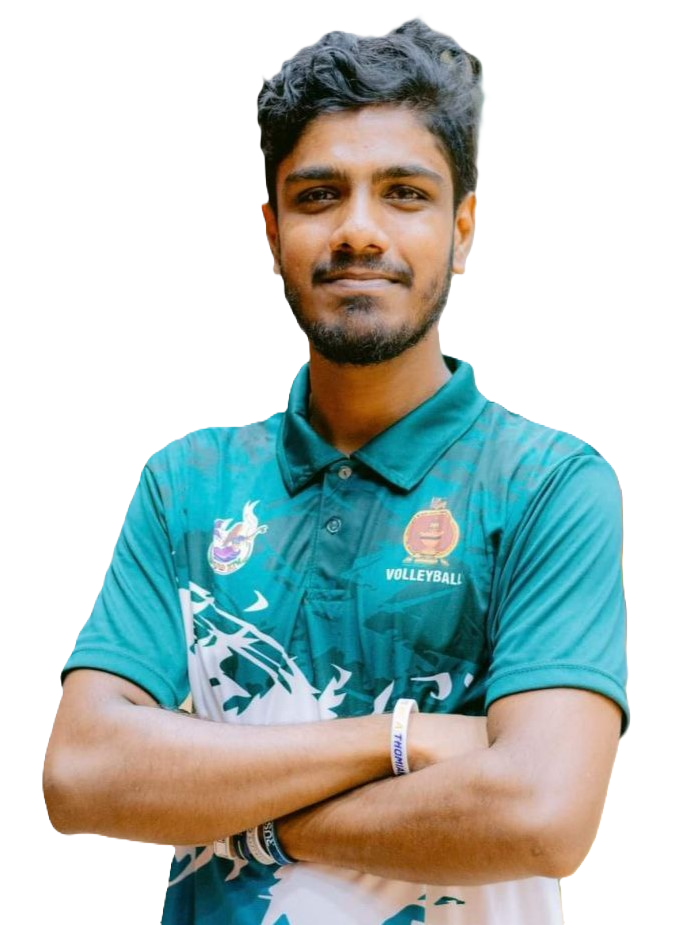
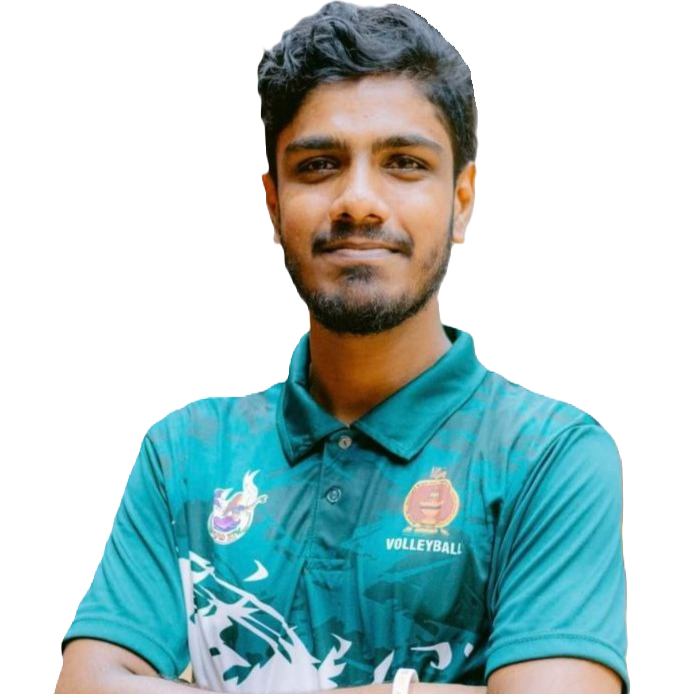
0.2.02

diff --git a/components/photo.jsx b/components/photo.jsx
@@ -6,20 +6,60 @@ import Image from "next/image";
 const Photo = () => {
   return (
     <div className="w-full h-full relative">
-      <motion.div 
-        initial={{ opacity: 0 }} 
-        animate={{ opacity: 1, transition: { delay: 0.2, duration: 0.4, ease: 'easeIn' } }}
+      <motion.div
+        initial={{ opacity: 0 }}
+        animate={{
+          opacity: 1,
+        }}
+        transition={{ delay: 2, duration: 0.4, ease: "easeIn" }}
       >
-        <div className="w-[298px] h-[298px] xl:w-[498px] xl:h-[498px] mix-blend-lighten">
-          <Image
-            src="/assets/photo.png"
-            priority
-            quality={100}
-            fill
-            alt="Photo of Isuru Madusanka"
-            className="object-contain"
+        {/* Inner Photo Animation */}
+        <motion.div
+          initial={{ opacity: 0 }}
+          animate={{
+            opacity: 1,
+          }}
+          transition={{ delay: 2.4, duration: 0.4, ease: "easeInOut" }}
+        >
+          <div className="w-[298px] h-[298px] xl:w-[498px] xl:h-[498px] mix-blend-lighten rounded-full overflow-hidden flex justify-center items-center absolute">
+            <Image
+              src="/assets/pic.png"
+              priority
+              quality={100}
+              fill
+              alt="Photo of Isuru Madusanka"
+              className="object-cover"
+            />
+          </div>
+        </motion.div>
+
+        {/* Circle Animation */}
+        <motion.svg
+          className="w-[300px] xl:w-[506px] h-[300px] xl:h-[506px]"
+          fill="transparent"
+          viewBox="0 0 506 506"
+          xmlns="http://www.w3.org/2000/svg"
+        >
+          <motion.circle
+            cx="250"
+            cy="251"
+            r="250"
+            stroke="#00ff99"
+            strokeWidth="4"
+            strokeLinecap="round"
+            strokeLinejoin="round"
+            initial={{strokeDasharray: "120 10 0 0", }}
+            animate={{
+              strokeDasharray: ["15 120 25 25","16 25 92 72","4 250 22 22"],
+              rotate: [120,360],
+            }}
+            transition={{
+              duration: 20,
+              repeat: Infinity,
+              repeatType: "reverse",
+            }}
           />
-        </div>
+        </motion.svg>
       </motion.div>
     </div>
   );

diff --git a/app/page.jsx b/app/page.jsx
@@ -1,6 +1,9 @@
-import Photo from "@/components/photo";
 import { Button } from "@/components/ui/button";
 import { FiDownload } from "react-icons/fi";
+
+//components
+import Photo from "@/components/Photo";
+import Socials from "@/components/Socials";
 
 const Home = () => {
   return (
@@ -9,10 +12,10 @@ const Home = () => {
         <div className="flex flex-col xl:flex-row items-center justify-between xl:pt-8 xl:pb-24">
           
           {/* text */}
-          <div className="text-center xl:text-left">
+          <div className="text-center xl:text-left order-2 xl:order-none">
             <span>  Web Developer</span>
             <h1 className="h1">
-              Hello I'm <br /> <span>Isuru Madusanka</span>
+              Hello I'm <br /> <span className="text-accent">Isuru Madusanka</span>
             </h1>
             <p className="max-w-[500px] mb-9 text-white/80">
               I excel at crafting elegant digital experiences and I am
@@ -29,12 +32,19 @@ const Home = () => {
                 <span>Download CV</span>
                 <FiDownload className="text-xl" />
               </Button>
-              <div>socials</div>
+              <div className="flex flex-col xl:flex-row items-center gap-8">
+                <Socials 
+                  containerStyles="flex gap-6" 
+                  iconStyles="w-9 h-9 border border-accent rounded-full flex justify-center items-center text-base hover:bg-accent hover:text-primary hover:transition-all duration-500"
+                />
+              </div>
             </div>
           </div>
           
           {/* photo */}
-          <div><Photo/></div>
+          <div className="order-1 xl:order-none mb-8 xl:mb-0">
+            <Photo />
+          </div>
         </div>
       </div>
     </section>

diff --git a/components/Socials.jsx b/components/Socials.jsx
@@ -1,0 +1,35 @@
+import Link from "next/link";
+import { FaGithub, FaLinkedin, FaYoutube, FaTwitter} from "react-icons/fa";
+
+const socials = [
+  {
+    icons: <FaGithub />,
+    path: 'https://github.com/Madusanka-max'
+  },
+  {
+    icons: <FaLinkedin />,
+    path: 'https://www.linkedin.com/in/Isuru-Madusanka-Rodrigo/'
+  },
+  {
+    icons: <FaYoutube />,
+    path: 'https://www.youtube.com/user/yourusername'
+  },
+  {
+    icons: <FaTwitter />,
+    path: 'https://twitter.com/IsuruMadu1023'
+  },
+];
+
+const Socials = ({ containerStyles, iconStyles }) => {
+  return (
+    <div className={containerStyles}>
+      {socials.map((item, index) => (
+        <Link href={item.path} key={index} className={iconStyles}>
+          {item.icons}
+        </Link>
+      ))}
+    </div>
+  );
+};
+
+export default Socials;

diff --git a/components/Stairs.jsx b/components/Stairs.jsx
@@ -15,7 +15,7 @@ const stairAnimation={
 
 //calculate the reverse index fot staggered delay
 const reverseIndex = (index) =>{
-    const totalSteps = 10;
+    const totalSteps = 12;
     return totalSteps - index -1;
 };
 
@@ -26,7 +26,7 @@ const Stairs = () => {
         The delay for each div is calculated sinamically based on it's reversed index,
         creating a staggered effect with decreasing delay for each subsequent step.*/}
 
-    {[...Array(10)].map((_,index)=>{
+    {[...Array(12)].map((_,index)=>{
         return(
         <motion.div key={index} variants={stairAnimation} initial="initial" animate="animate" exit="exit" transition={{
             duration: 0.4,

diff --git a/app/globals.css b/app/globals.css
@@ -10,10 +10,10 @@
     @apply font-primary bg-primary text-white leading-loose;
   }
   .h1 {
-    @apply text-[48px] xl:text-[80px] leading-[1.1] font-semibold;
+    @apply text-[42px] xl:text-[64px] leading-[1.1] font-semibold;
   }
     h2 {
-    @apply text-[36px] xl:text-[48px] leading-[1.1] font-semibold;
+    @apply text-[36px] xl:text-[42px] leading-[1.1] font-semibold;
     }
     h3 {
     @apply text-[20px] xl:text-[24px] leading-[1.1] font-semibold;
